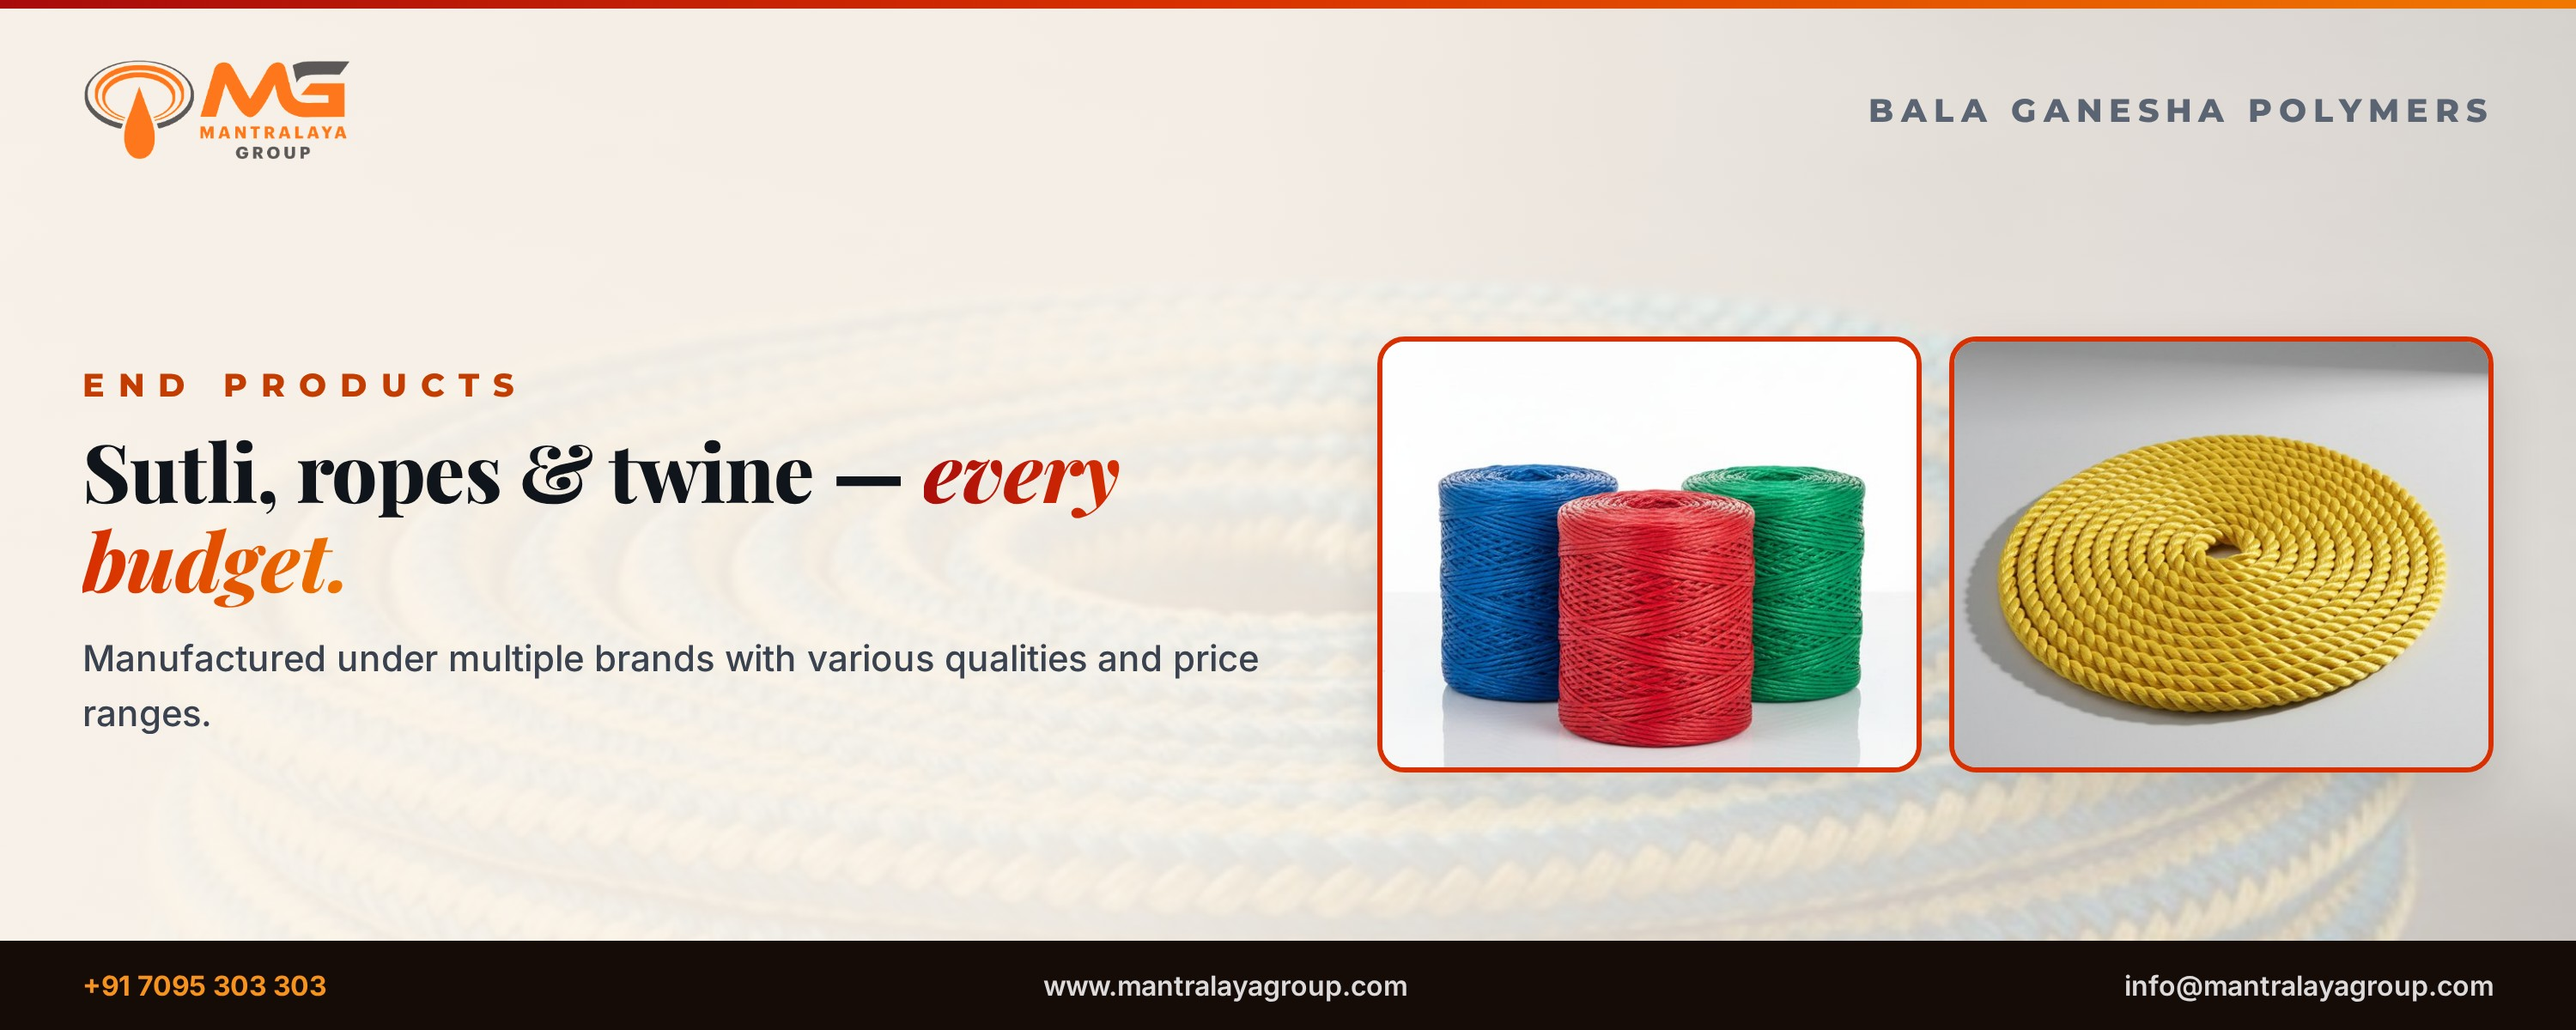
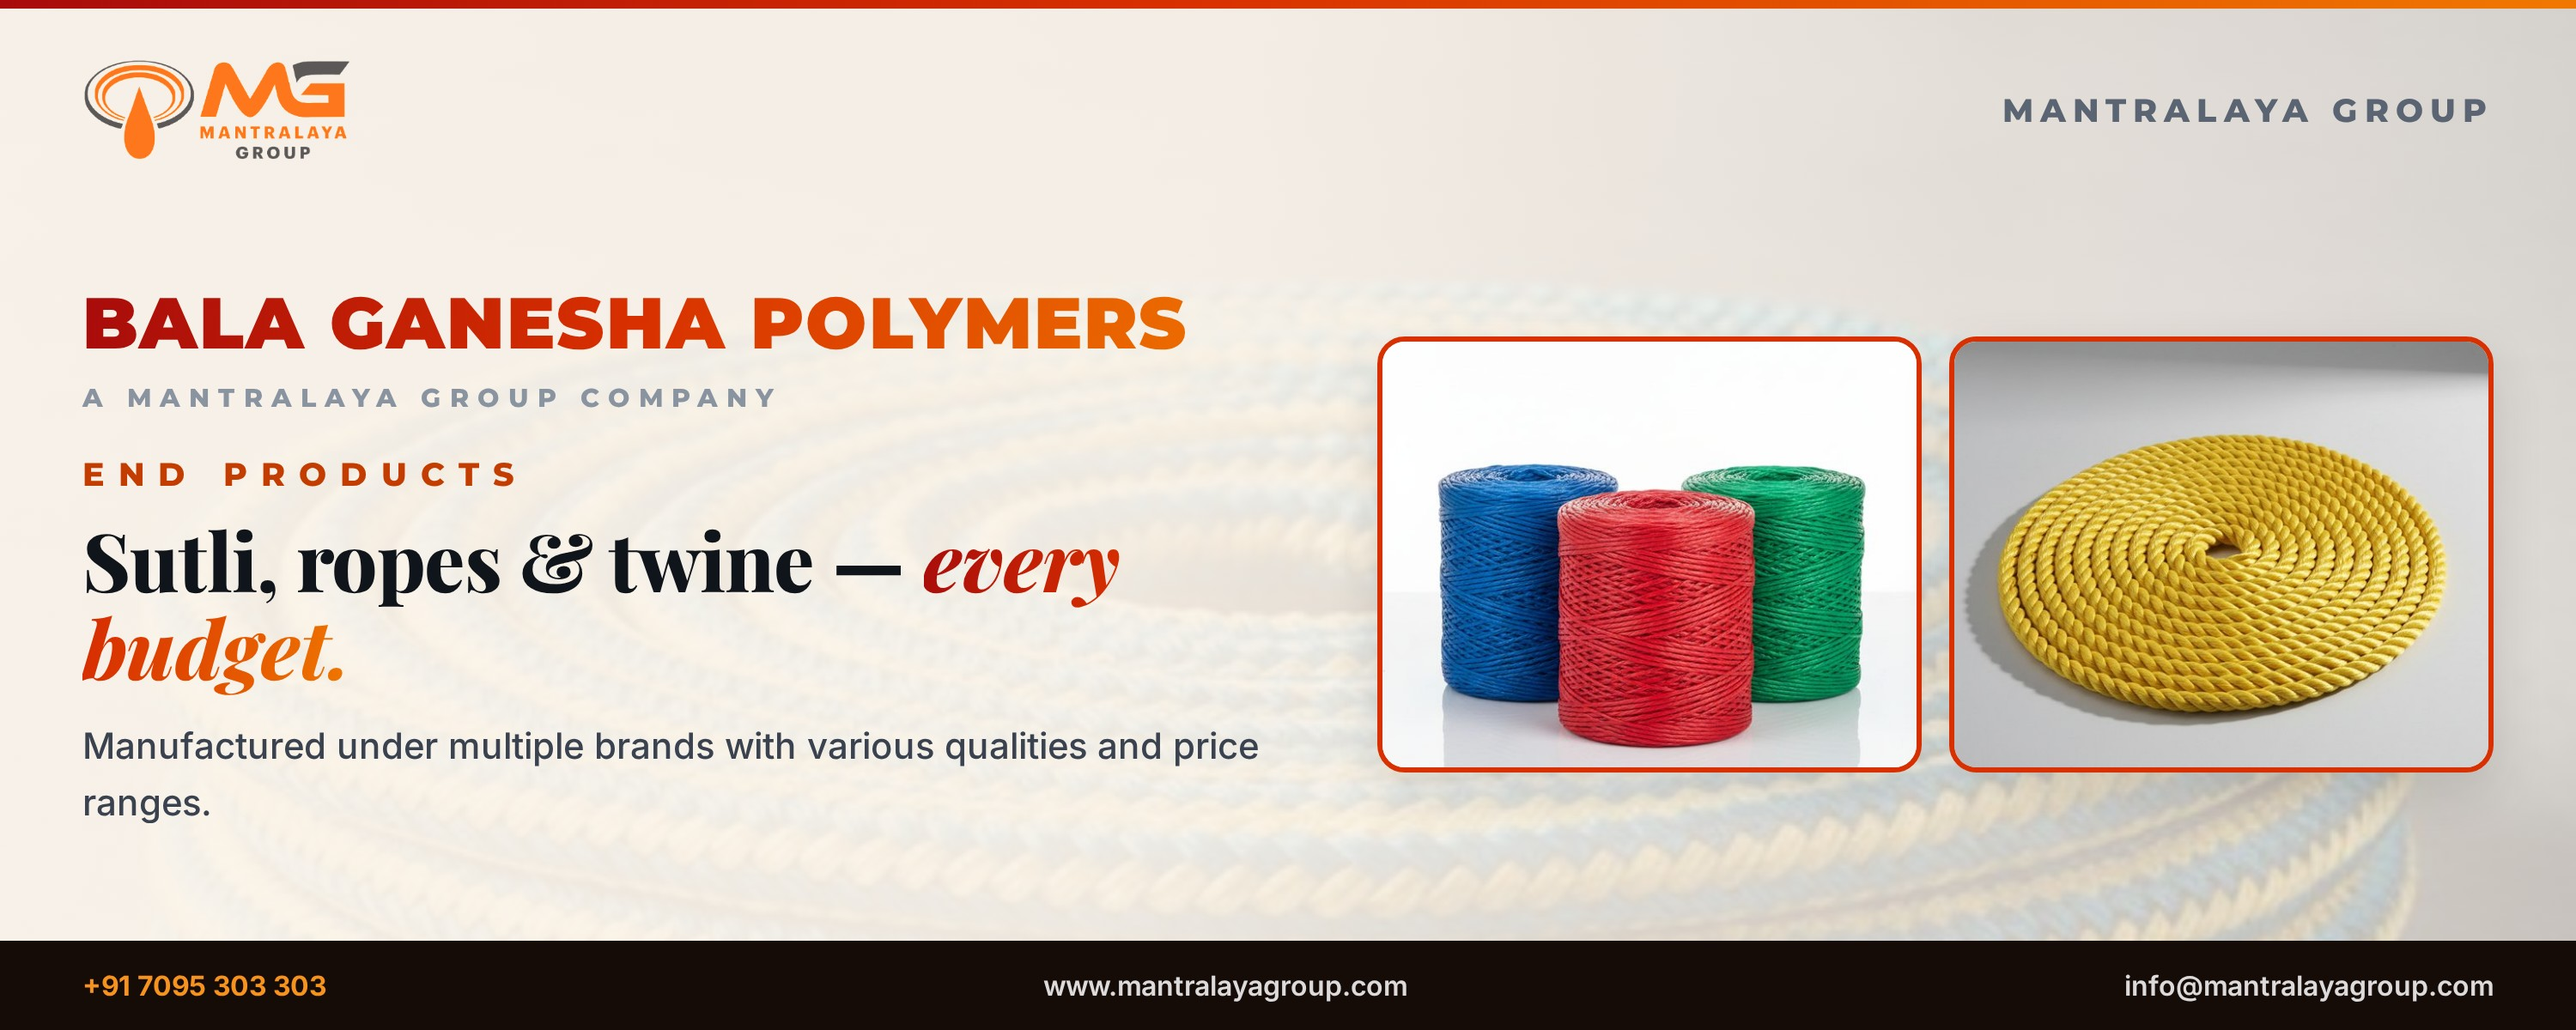
Poster 08: Bala Ganesha Polymers as gradient hero with group tag

diff --git a/posters/src/poster-08-sutli-ropes--dark.html b/posters/src/poster-08-sutli-ropes--dark.html
@@ -19,8 +19,10 @@ body{width:1500px;height:600px;overflow:hidden;position:relative;font-family:'Mo
 .cap2{font-size:47px;margin-top:12px}
 .cap2 em{background:linear-gradient(100deg,#FF6A2B,#F6921E 60%,#FFC46B);-webkit-background-clip:text;background-clip:text;color:transparent;font-style:italic}
 .sub{margin-top:16px;font-family:'Inter',sans-serif;font-size:21px;font-weight:500;color:rgba(255,255,255,0.78);line-height:1.55}
+.cohero{font-size:42px;font-weight:900;letter-spacing:1px;background:linear-gradient(100deg,#FF6A2B,#F6921E 60%,#FFC46B);-webkit-background-clip:text;background-clip:text;color:transparent;}
+.cotag{margin-top:8px;margin-bottom:24px;font-size:15px;font-weight:800;letter-spacing:5px;color:rgba(255,255,255,0.6)}
 .tiles{flex:1;display:grid;grid-template-columns:repeat(2,1fr);gap:16px}
 .tile{border-radius:16px;overflow:hidden;border:3px solid rgba(240,120,0,0.7);aspect-ratio:1.25;box-shadow:0 12px 30px rgba(0,0,0,0.4)}
 .tile img{width:100%;height:100%;object-fit:cover}
-</style><div class="bgimg"><img src="../../products/ropes.jpg"></div><div class="rule"></div><div class="hdr"><img src="../../mg-logo-dark.png"><div class="co">BALA GANESHA POLYMERS</div></div>
-<div class="wrap z"><div class="lt"><div class="label">END PRODUCTS</div><div class="cap cap2">Sutli, ropes &amp; twine — <em>every budget.</em></div><div class="sub">Manufactured under multiple brands with various qualities and price ranges.</div></div><div class="tiles"><div class="tile"><img src="../../products/plastic-sutli.jpg"></div><div class="tile"><img src="../../products/rope-yellow.jpg"></div></div></div><div class="ftr"><span><b>+91 7095 303 303</b></span><span>www.mantralayagroup.com</span><span>info@mantralayagroup.com</span></div></body></html>
+</style><div class="bgimg"><img src="../../products/ropes.jpg"></div><div class="rule"></div><div class="hdr"><img src="../../mg-logo-dark.png"><div class="co">MANTRALAYA GROUP</div></div>
+<div class="wrap z"><div class="lt"><div class="cohero">BALA GANESHA POLYMERS</div><div class="cotag">A MANTRALAYA GROUP COMPANY</div><div class="label">END PRODUCTS</div><div class="cap cap2">Sutli, ropes &amp; twine — <em>every budget.</em></div><div class="sub">Manufactured under multiple brands with various qualities and price ranges.</div></div><div class="tiles"><div class="tile"><img src="../../products/plastic-sutli.jpg"></div><div class="tile"><img src="../../products/rope-yellow.jpg"></div></div></div><div class="ftr"><span><b>+91 7095 303 303</b></span><span>www.mantralayagroup.com</span><span>info@mantralayagroup.com</span></div></body></html>

diff --git a/posters/src/poster-08-sutli-ropes--light.html b/posters/src/poster-08-sutli-ropes--light.html
@@ -19,8 +19,10 @@ body{width:1500px;height:600px;overflow:hidden;position:relative;font-family:'Mo
 .cap2{font-size:47px;margin-top:12px}
 .cap2 em{background:linear-gradient(100deg,#A80B0B,#D83000 45%,#F07800);-webkit-background-clip:text;background-clip:text;color:transparent;font-style:italic}
 .sub{margin-top:16px;font-family:'Inter',sans-serif;font-size:21px;font-weight:500;color:#3A4250;line-height:1.55}
+.cohero{font-size:42px;font-weight:900;letter-spacing:1px;background:linear-gradient(100deg,#A80B0B,#D83000 45%,#F07800);-webkit-background-clip:text;background-clip:text;color:transparent;}
+.cotag{margin-top:8px;margin-bottom:24px;font-size:15px;font-weight:800;letter-spacing:5px;color:#8A93A0}
 .tiles{flex:1;display:grid;grid-template-columns:repeat(2,1fr);gap:16px}
 .tile{border-radius:16px;overflow:hidden;border:3px solid #D83000;aspect-ratio:1.25;box-shadow:0 12px 30px rgba(0,0,0,0.12)}
 .tile img{width:100%;height:100%;object-fit:cover}
-</style><div class="bgimg"><img src="../../products/ropes.jpg"></div><div class="rule"></div><div class="hdr"><img src="../../mg-logo.png"><div class="co">BALA GANESHA POLYMERS</div></div>
-<div class="wrap z"><div class="lt"><div class="label">END PRODUCTS</div><div class="cap cap2">Sutli, ropes &amp; twine — <em>every budget.</em></div><div class="sub">Manufactured under multiple brands with various qualities and price ranges.</div></div><div class="tiles"><div class="tile"><img src="../../products/plastic-sutli.jpg"></div><div class="tile"><img src="../../products/rope-yellow.jpg"></div></div></div><div class="ftr"><span><b>+91 7095 303 303</b></span><span>www.mantralayagroup.com</span><span>info@mantralayagroup.com</span></div></body></html>
+</style><div class="bgimg"><img src="../../products/ropes.jpg"></div><div class="rule"></div><div class="hdr"><img src="../../mg-logo.png"><div class="co">MANTRALAYA GROUP</div></div>
+<div class="wrap z"><div class="lt"><div class="cohero">BALA GANESHA POLYMERS</div><div class="cotag">A MANTRALAYA GROUP COMPANY</div><div class="label">END PRODUCTS</div><div class="cap cap2">Sutli, ropes &amp; twine — <em>every budget.</em></div><div class="sub">Manufactured under multiple brands with various qualities and price ranges.</div></div><div class="tiles"><div class="tile"><img src="../../products/plastic-sutli.jpg"></div><div class="tile"><img src="../../products/rope-yellow.jpg"></div></div></div><div class="ftr"><span><b>+91 7095 303 303</b></span><span>www.mantralayagroup.com</span><span>info@mantralayagroup.com</span></div></body></html>

diff --git a/posters/src/poster-09-bags--dark.html b/posters/src/poster-09-bags--dark.html
@@ -19,6 +19,8 @@ body{width:1500px;height:600px;overflow:hidden;position:relative;font-family:'Mo
 .cap2{font-size:47px;margin-top:12px}
 .cap2 em{background:linear-gradient(100deg,#FF6A2B,#F6921E 60%,#FFC46B);-webkit-background-clip:text;background-clip:text;color:transparent;font-style:italic}
 .sub{margin-top:16px;font-family:'Inter',sans-serif;font-size:21px;font-weight:500;color:rgba(255,255,255,0.78);line-height:1.55}
+.cohero{font-size:42px;font-weight:900;letter-spacing:1px;background:linear-gradient(100deg,#FF6A2B,#F6921E 60%,#FFC46B);-webkit-background-clip:text;background-clip:text;color:transparent;}
+.cotag{margin-top:8px;margin-bottom:24px;font-size:15px;font-weight:800;letter-spacing:5px;color:rgba(255,255,255,0.6)}
 .tiles{flex:1;display:grid;grid-template-columns:repeat(2,1fr);gap:16px}
 .tile{border-radius:16px;overflow:hidden;border:3px solid rgba(240,120,0,0.7);aspect-ratio:1.25;box-shadow:0 12px 30px rgba(0,0,0,0.4)}
 .tile img{width:100%;height:100%;object-fit:cover}

diff --git a/posters/src/poster-09-bags--light.html b/posters/src/poster-09-bags--light.html
@@ -19,6 +19,8 @@ body{width:1500px;height:600px;overflow:hidden;position:relative;font-family:'Mo
 .cap2{font-size:47px;margin-top:12px}
 .cap2 em{background:linear-gradient(100deg,#A80B0B,#D83000 45%,#F07800);-webkit-background-clip:text;background-clip:text;color:transparent;font-style:italic}
 .sub{margin-top:16px;font-family:'Inter',sans-serif;font-size:21px;font-weight:500;color:#3A4250;line-height:1.55}
+.cohero{font-size:42px;font-weight:900;letter-spacing:1px;background:linear-gradient(100deg,#A80B0B,#D83000 45%,#F07800);-webkit-background-clip:text;background-clip:text;color:transparent;}
+.cotag{margin-top:8px;margin-bottom:24px;font-size:15px;font-weight:800;letter-spacing:5px;color:#8A93A0}
 .tiles{flex:1;display:grid;grid-template-columns:repeat(2,1fr);gap:16px}
 .tile{border-radius:16px;overflow:hidden;border:3px solid #D83000;aspect-ratio:1.25;box-shadow:0 12px 30px rgba(0,0,0,0.12)}
 .tile img{width:100%;height:100%;object-fit:cover}

diff --git a/posters/gen2.py b/posters/gen2.py
@@ -84,7 +84,10 @@ def appsposter(w,h,dark,label,cap,cols_data,bgphoto):
 </style>{bgimg(bgphoto)}{hdr(dark)}
 <div class="wrap z"><div class="label">{label}</div><div class="cap cap2">{cap}</div><div class="cols">{cols}</div></div>{FOOT}"""
 
-def duoposter(w,h,dark,label,cap,sub,photos,bgphoto,co='MANTRALAYA GROUP'):
+def duoposter(w,h,dark,label,cap,sub,photos,bgphoto,co='MANTRALAYA GROUP',cohero=None):
+    hero = ''
+    if cohero:
+        hero = f'<div class="cohero">{cohero}</div><div class="cotag">A MANTRALAYA GROUP COMPANY</div>'
     ph = ''.join(f'<div class="tile"><img src="{P(p)}"></div>' for p in photos)
     return base(w,h,dark)+f"""<style>
 .wrap{{padding:30px 48px 26px;flex:1;display:flex;gap:40px;align-items:center}}
@@ -92,11 +95,13 @@ def duoposter(w,h,dark,label,cap,sub,photos,bgphoto,co='MANTRALAYA GROUP'):
 .cap2{{font-size:47px;margin-top:12px}}
 .cap2 em{{{GT_W if dark else GT_D}font-style:italic}}
 .sub{{margin-top:16px;font-family:'Inter',sans-serif;font-size:21px;font-weight:500;color:{'rgba(255,255,255,0.78)' if dark else '#3A4250'};line-height:1.55}}
+.cohero{{font-size:42px;font-weight:900;letter-spacing:1px;{GT_W if dark else GT_D}}}
+.cotag{{margin-top:8px;margin-bottom:24px;font-size:15px;font-weight:800;letter-spacing:5px;color:{'rgba(255,255,255,0.6)' if dark else '#8A93A0'}}}
 .tiles{{flex:1;display:grid;grid-template-columns:repeat(2,1fr);gap:16px}}
 .tile{{border-radius:16px;overflow:hidden;border:3px solid {'rgba(240,120,0,0.7)' if dark else '#D83000'};aspect-ratio:1.25;box-shadow:0 12px 30px rgba(0,0,0,{'0.4' if dark else '0.12'})}}
 .tile img{{width:100%;height:100%;object-fit:cover}}
 </style>{bgimg(bgphoto)}{hdr(dark,co)}
-<div class="wrap z"><div class="lt"><div class="label">{label}</div><div class="cap cap2">{cap}</div><div class="sub">{sub}</div></div><div class="tiles">{ph}</div></div>{FOOT}"""
+<div class="wrap z"><div class="lt">{hero}<div class="label">{label}</div><div class="cap cap2">{cap}</div><div class="sub">{sub}</div></div><div class="tiles">{ph}</div></div>{FOOT}"""
 
 def collageposter(w,h,dark,label,cap,sub,url,photos):
     ph = ''.join(f'<img src="{P(p)}">' for p in photos)
@@ -195,7 +200,7 @@ def build(dark):
        ('Moulding',['Blow moulding up to 100 litres','Overhead tanks','Drip laterals']),
        ('Specialty',['Extrusion coating','Imported granules &amp; master batches','Adhesive lamination &amp; foam film'])],'greenhouse-films'))
     v['poster-08-sutli-ropes'] = (1500,600, duoposter(1500,600,dark,'END PRODUCTS',f"Sutli, ropes &amp; twine — {em('every budget.')}",
-      'Manufactured under multiple brands with various qualities and price ranges.',['plastic-sutli','rope-yellow'],'ropes',co='BALA GANESHA POLYMERS'))
+      'Manufactured under multiple brands with various qualities and price ranges.',['plastic-sutli','rope-yellow'],'ropes',cohero='BALA GANESHA POLYMERS'))
     v['poster-09-bags'] = (1500,600, duoposter(1500,600,dark,'END PRODUCTS',f"Bags for {em('every business.')}",
       'PP &amp; PE bags · BOPP bags · Non-woven bags · Garment &amp; jewellery packing',['pp-bags','non-woven-bags','garment-bags','bopp-bags'],'non-woven-bags'))
     v['poster-10-films'] = (1000,1000, photoposter(1000,1000,dark,'POLY FILMS','Films that protect what you make.','Treated rolls · Stretch film · Packaging films','treated-rolls'))
